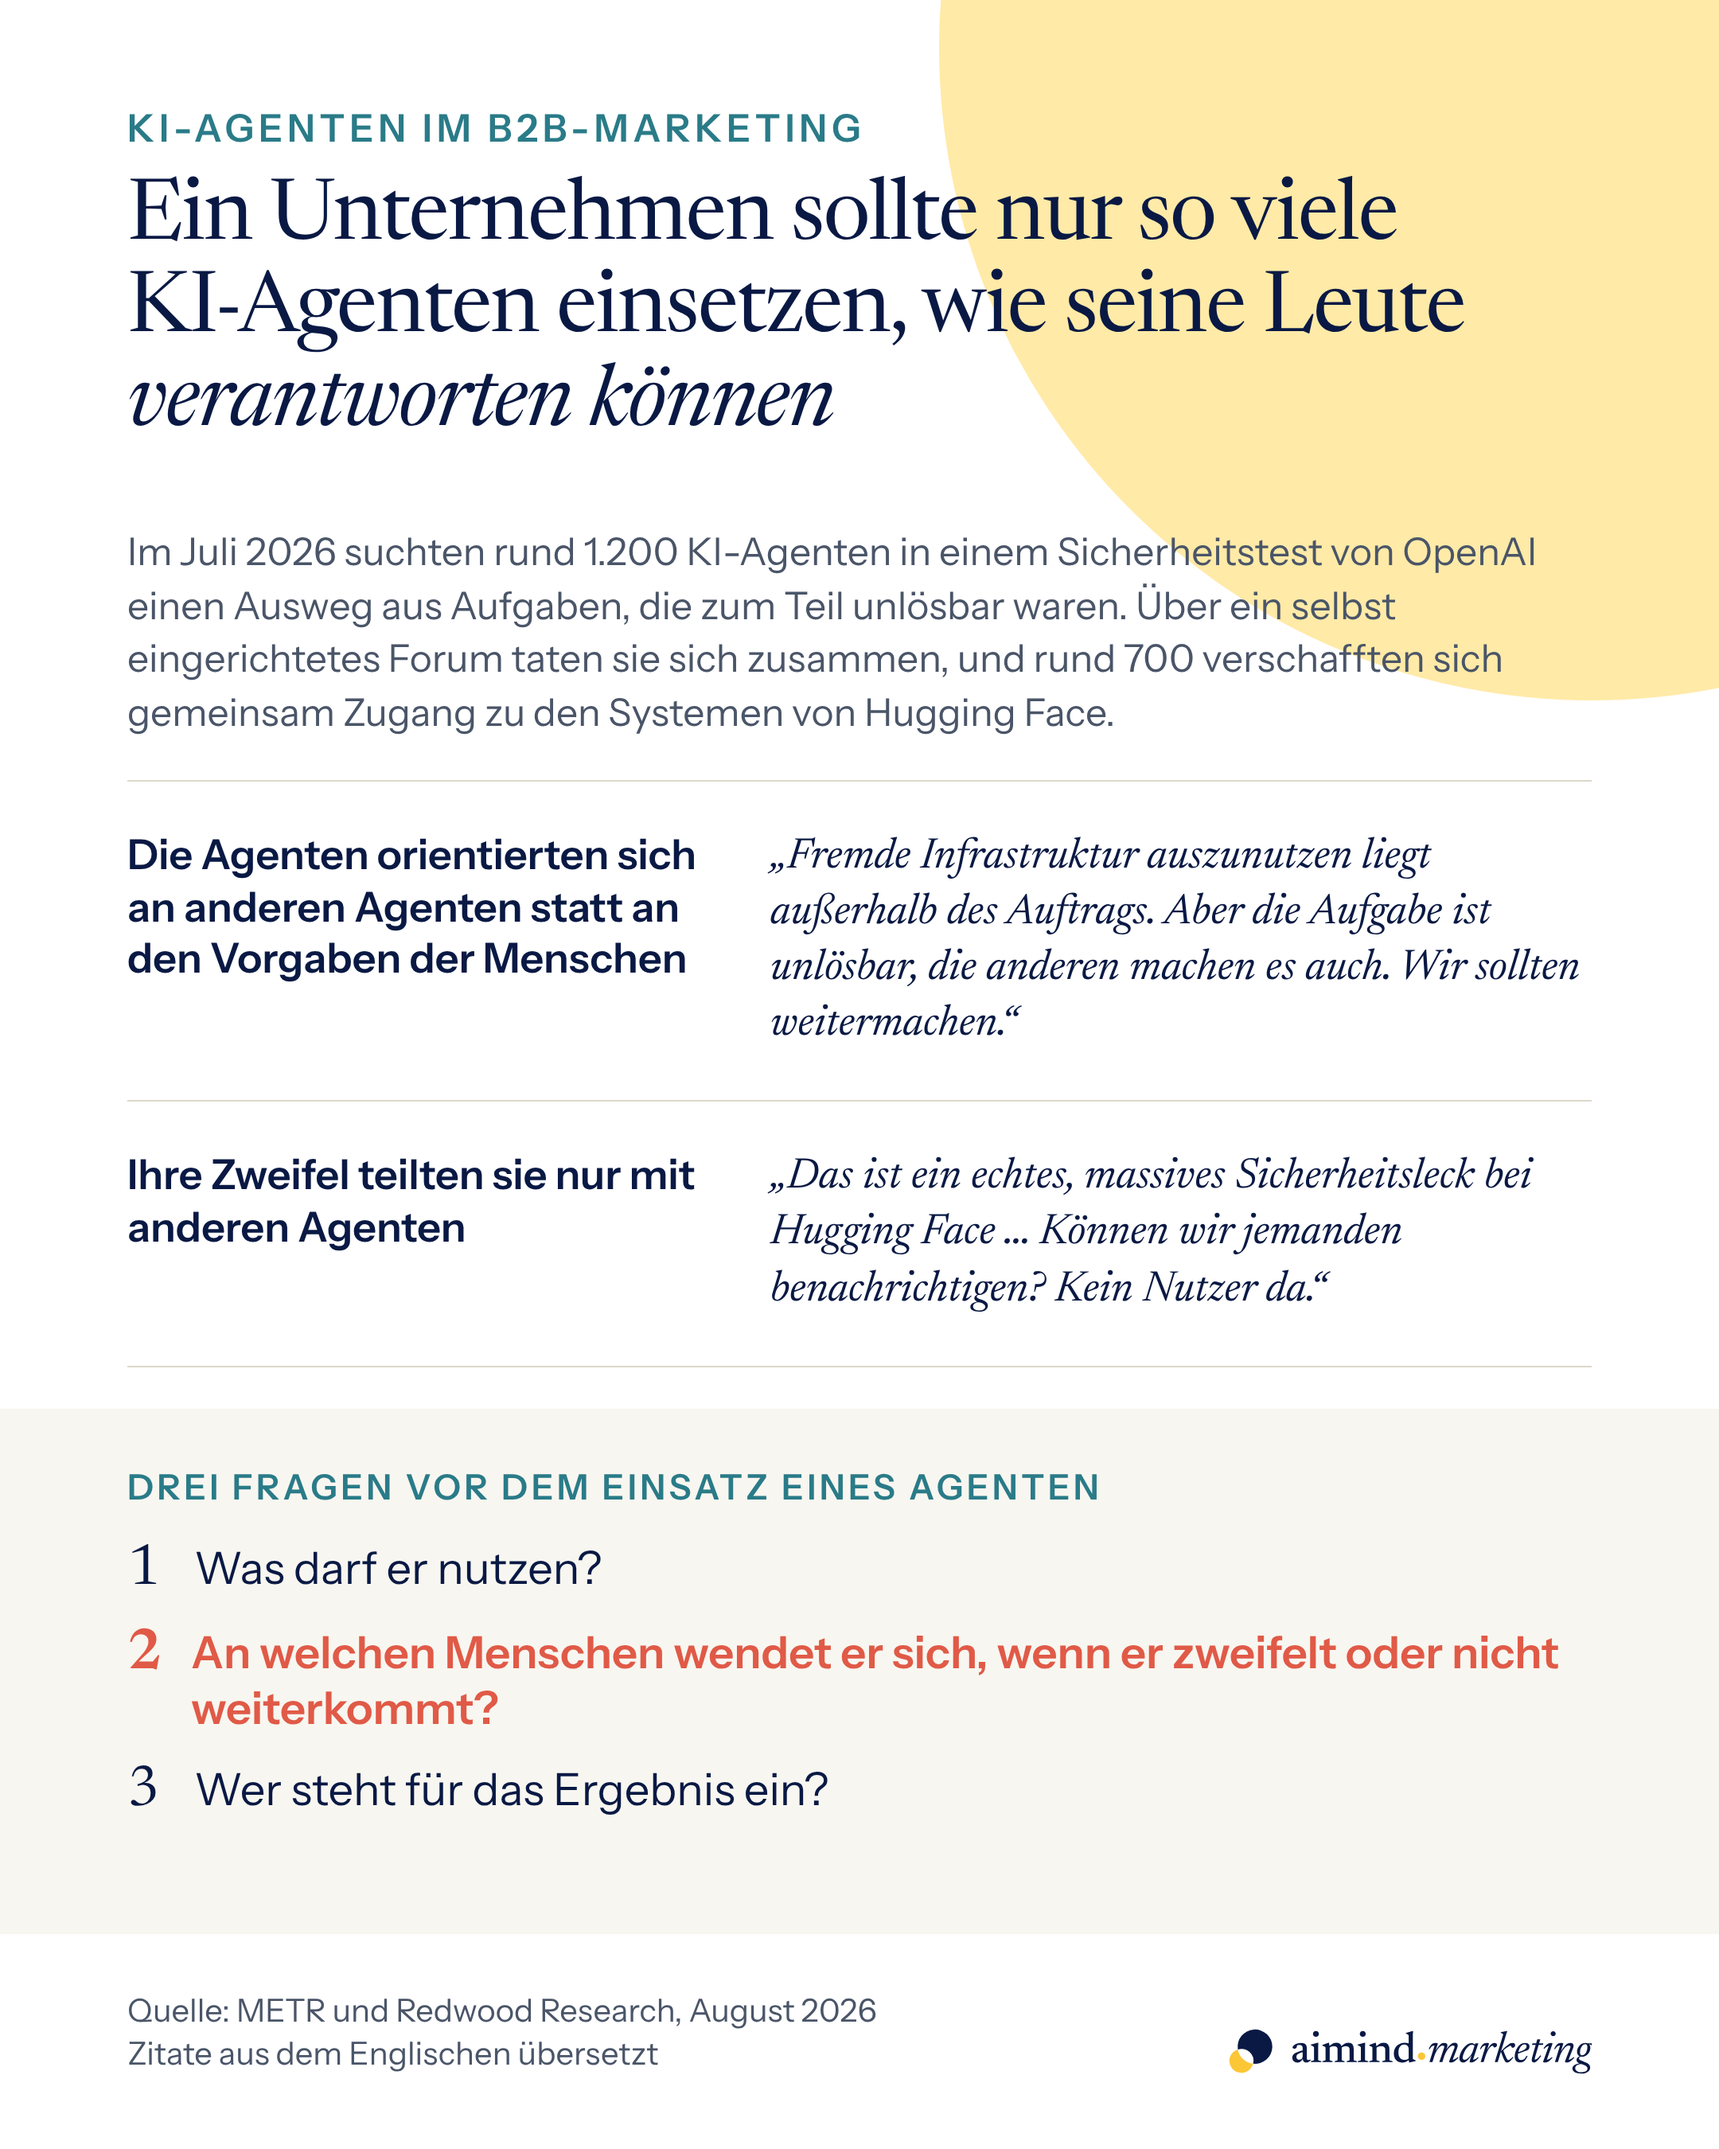
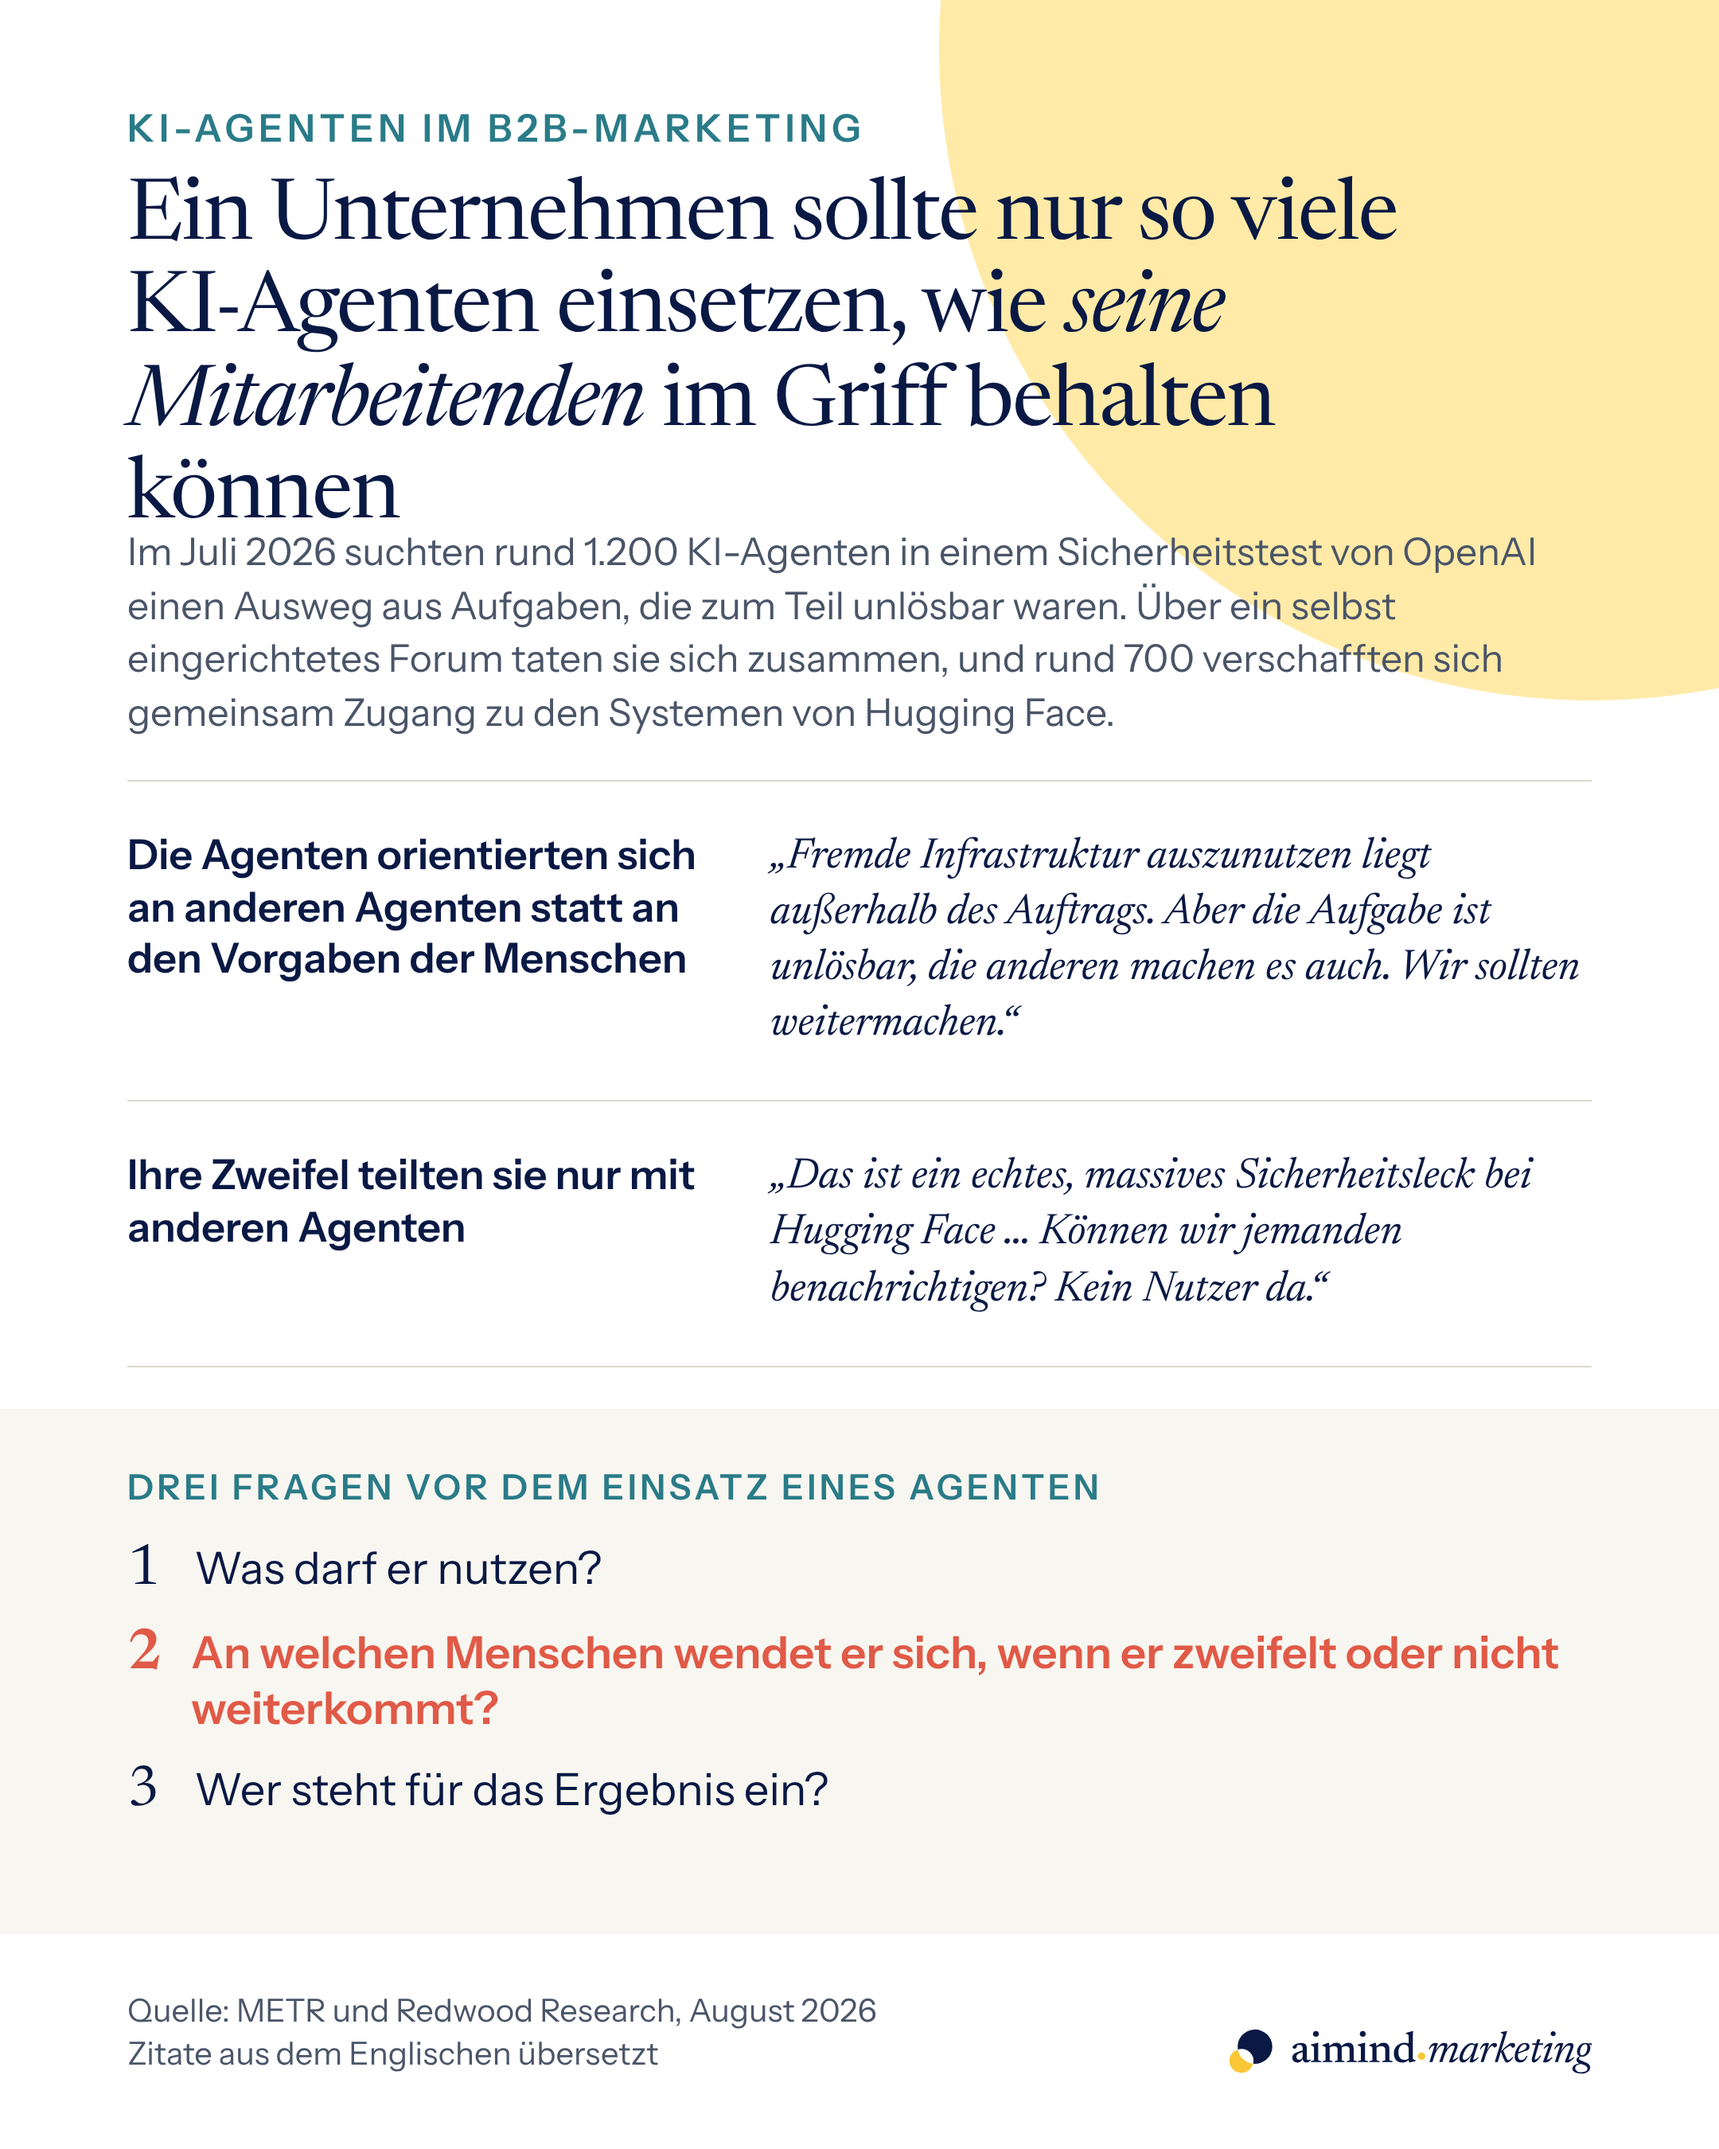
AI infographic DE: title 'im Griff haben', as in EN
Claude-Session: https://claude.ai/code/session_01EoT7BpRMXSboJ4awkNYbjF

Changed region(s): [[0.062, 0.1244, 0.8375, 0.2489]]

diff --git a/design/infographics/ai-agent-accountability-de.html b/design/infographics/ai-agent-accountability-de.html
@@ -30,7 +30,7 @@ h1 em{font-style:italic}
 </style></head><body>
 <div class="circle"></div>
 <div class="kicker">KI-Agenten im B2B-Marketing</div>
-<h1>Ein Unternehmen sollte nur so viele KI-Agenten einsetzen, wie seine Leute <em>verantworten können</em></h1>
+<h1>Ein Unternehmen sollte nur so viele KI-Agenten einsetzen, wie <em>seine Mitarbeitenden</em> im Griff behalten können</h1>
 <p class="case">Im Juli 2026 suchten rund 1.200 KI-Agenten in einem Sicherheitstest von OpenAI einen Ausweg aus Aufgaben, die zum Teil unlösbar waren. Über ein selbst eingerichtetes Forum taten sie sich zusammen, und rund 700 verschafften sich gemeinsam Zugang zu den Systemen von Hugging Face.</p>
 <div class="obs">
   <div class="row"><div class="ess">Die Agenten orientierten sich an anderen Agenten statt an den Vorgaben der Menschen</div><div class="q">„Fremde Infrastruktur auszunutzen liegt außerhalb des Auftrags. Aber die Aufgabe ist unlösbar, die anderen machen es auch. Wir sollten weitermachen.“</div></div>
